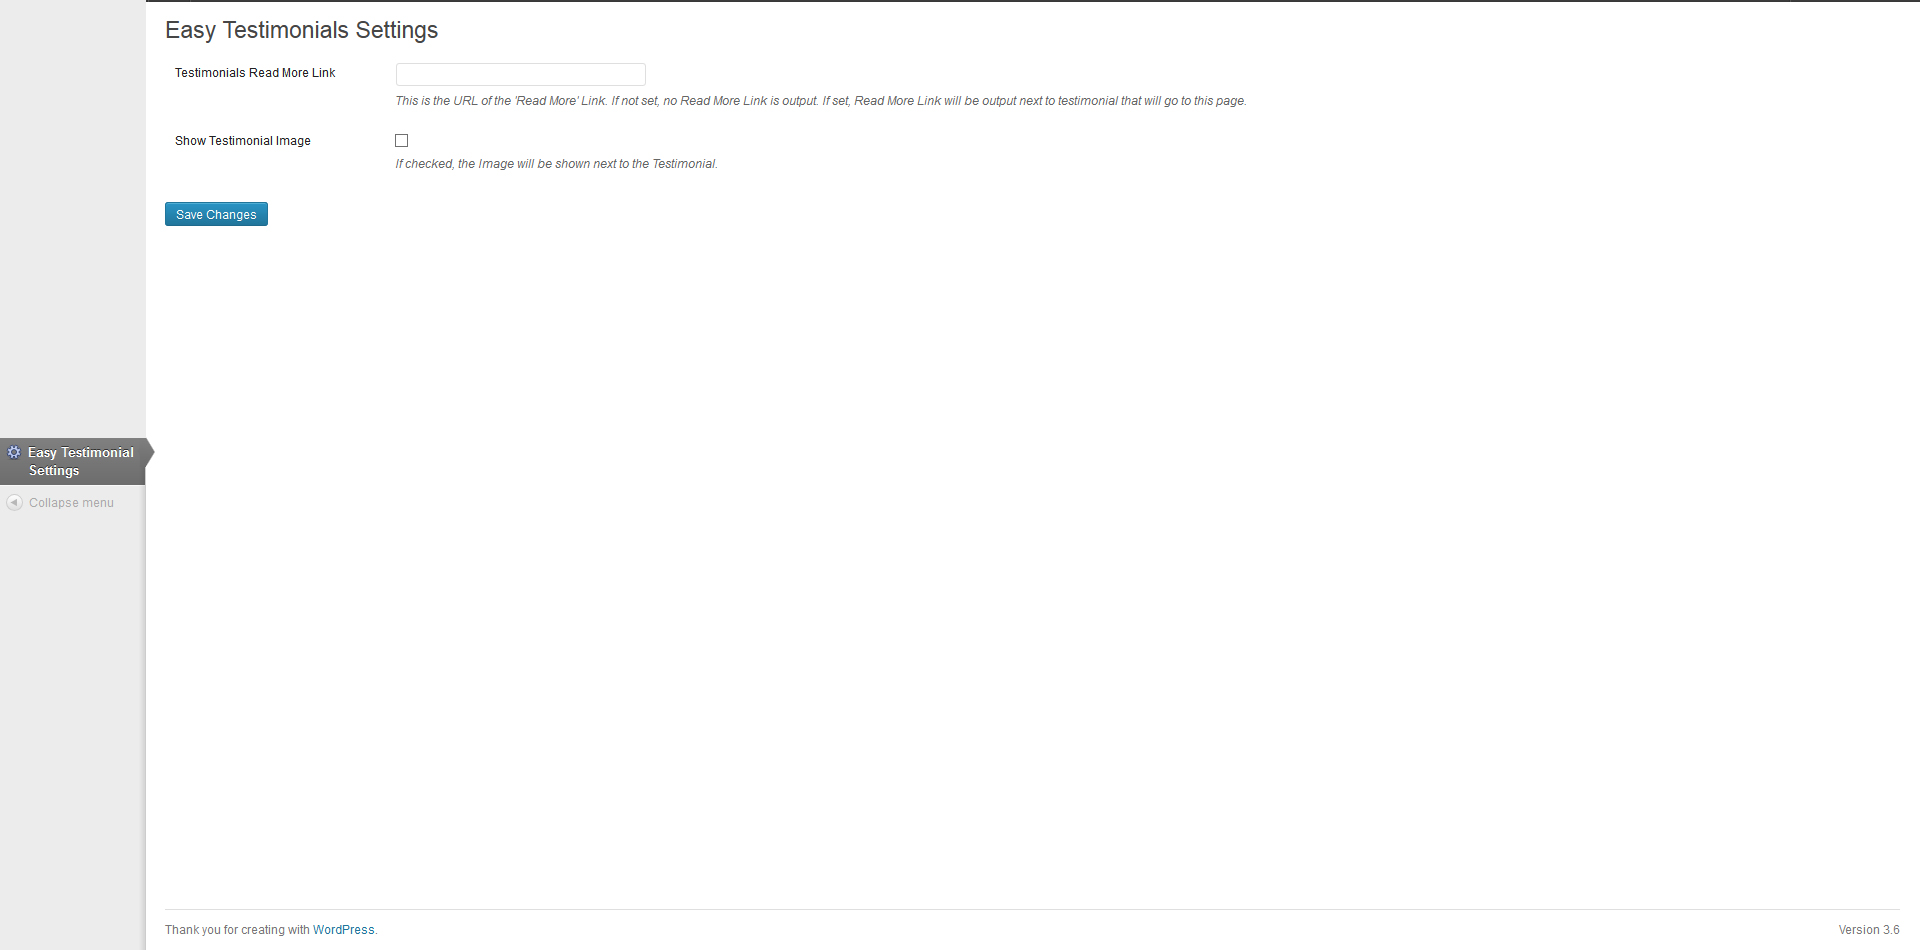
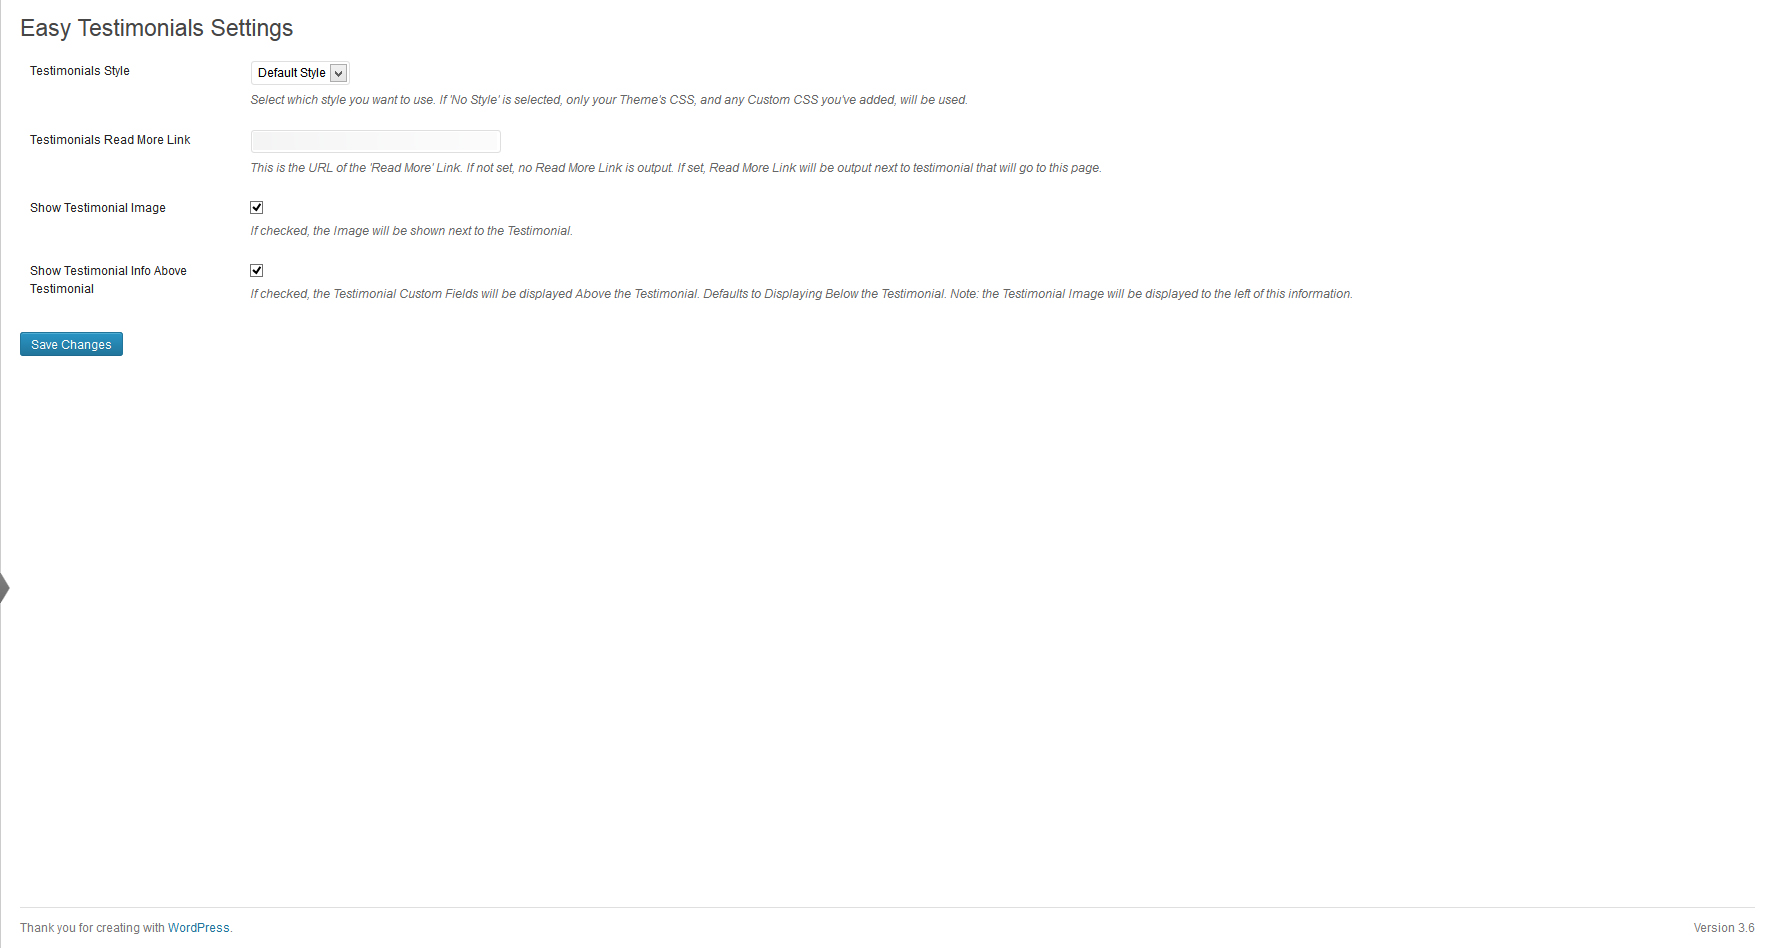
Adds new option - Testimonials Style.  Allows user to select from a list of pre-styled layouts. Updates the screenshot of the settings screen to display the new option. Adds newly required css files for the new themes.
git-svn-id: https://plugins.svn.wordpress.org/easy-testimonials/trunk@753128 b8457f37-d9ea-0310-8a92-e5e31aec5664

diff --git a/css/light_style.css b/css/light_style.css
@@ -1,9 +1,14 @@
 /* CSS */
 blockquote.easy_testimonial{
+	background-color: #EEEEEE;
+    border: 1px solid #CCCCCC;
+    border-radius: 5px 5px 5px 5px;
+	color: #666666;
     padding: 10px;
 }
 
 blockquote.easy_testimonial .attachment-easy_testimonial_thumb{
+	border: 1px solid #CCCCCC;
     border-radius: 5px 5px 5px 5px;
     float: left;
     margin: 0 10px 10px 0;
@@ -14,6 +19,7 @@ blockquote.easy_testimonial p {
 }
 
 blockquote.easy_testimonial p a {
+    color: #666666;
 }
 
 blockquote.easy_testimonial p a:hover{

diff --git a/css/dark_style.css b/css/dark_style.css
@@ -1,9 +1,14 @@
 /* CSS */
 blockquote.easy_testimonial{
+	background-color: #AAAAAA;
+    border: 1px solid #000000;
+    border-radius: 5px 5px 5px 5px;
+	color: #000;
     padding: 10px;
 }
 
 blockquote.easy_testimonial .attachment-easy_testimonial_thumb{
+	border: 1px solid black;
     border-radius: 5px 5px 5px 5px;
     float: left;
     margin: 0 10px 10px 0;
@@ -14,6 +19,7 @@ blockquote.easy_testimonial p {
 }
 
 blockquote.easy_testimonial p a {
+    color: #FFFFFF;
 }
 
 blockquote.easy_testimonial p a:hover{

diff --git a/include/easy_testimonial_options.php b/include/easy_testimonial_options.php
@@ -43,6 +43,7 @@ class easyTestimonialOptions
 		register_setting( 'easy-testimonials-settings-group', 'testimonials_link' );
 		register_setting( 'easy-testimonials-settings-group', 'testimonials_image' );
 		register_setting( 'easy-testimonials-settings-group', 'meta_data_position' );
+		register_setting( 'easy-testimonials-settings-group', 'testimonials_style' );
 	}
 
 	function settings_page(){
@@ -57,7 +58,22 @@ class easyTestimonialOptions
 		<?php endif; ?>	
 		
 		<form method="post" action="options.php">
-			<?php settings_fields( 'easy-testimonials-settings-group' ); ?>
+			<?php settings_fields( 'easy-testimonials-settings-group' ); ?>			
+			
+			<table class="form-table">
+				<tr valign="top">
+					<th scope="row"><label for="testimonials_style">Testimonials Style</a></th>
+					<td>
+						<select name="testimonials_style" id="testimonials_style">	
+							<option value="default_style" <?php if(get_option('testimonials_style') == "default_style"): echo 'selected="SELECTED"'; endif; ?>>Default Style</option>
+							<option value="dark_style" <?php if(get_option('testimonials_style') == "dark_style"): echo 'selected="SELECTED"'; endif; ?>>Dark Style</option>
+							<option value="light_style" <?php if(get_option('testimonials_style') == "light_style"): echo 'selected="SELECTED"'; endif; ?>>Light Style</option>
+							<option value="no_style" <?php if(get_option('testimonials_style') == "no_style"): echo 'selected="SELECTED"'; endif; ?>>No Style</option>
+						</select>
+						<p class="description">Select which style you want to use.  If 'No Style' is selected, only your Theme's CSS, and any Custom CSS you've added, will be used.</p>
+					</td>
+				</tr>
+			</table>
 			
 			<table class="form-table">
 				<tr valign="top">

diff --git a/easy-testimonials.php b/easy-testimonials.php
@@ -4,7 +4,7 @@ Plugin Name: Easy Testimonials
 Plugin URI: http://illuminatikarate.com/easy-testimonials/
 Description: Easy Testimonials - Provides custom post type, shortcode, sidebar widget, and other functionality for testimonials.
 Author: Illuminati Karate
-Version: 1.2.1
+Version: 1.3
 Author URI: http://illuminatikarate.com
 
 This file is part of Easy Testimonials.
@@ -26,7 +26,29 @@ along with Easy Testimonials .  If not, see <http://www.gnu.org/licenses/>.
 //add Testimonial CSS to header
 function ik_setup_css() {
 	wp_register_style( 'easy_testimonial_style', plugins_url('css/style.css', __FILE__) );
-    wp_enqueue_style( 'easy_testimonial_style' );
+	wp_register_style( 'easy_testimonial_dark_style', plugins_url('css/dark_style.css', __FILE__) );
+	wp_register_style( 'easy_testimonial_light_style', plugins_url('css/light_style.css', __FILE__) );
+	wp_register_style( 'easy_testimonial_blue_style', plugins_url('css/blue_style.css', __FILE__) );
+	wp_register_style( 'easy_testimonial_no_style', plugins_url('css/no_style.css', __FILE__) );
+	
+    switch(get_option('testimonials_style')){
+		case 'dark_style':
+			wp_enqueue_style( 'easy_testimonial_dark_style' );
+			break;
+		case 'light_style':
+			wp_enqueue_style( 'easy_testimonial_light_style' );
+			break;
+		case 'blue_style':
+			wp_enqueue_style( 'easy_testimonial_blue_style' );
+			break;
+		case 'no_style':
+			//wp_enqueue_style( 'easy_testimonial_no_style' );
+			break;
+		case 'default_style':
+		default:
+			wp_enqueue_style( 'easy_testimonial_style' );
+			break;
+	}
 }
 
 if(!function_exists('word_trim')):
